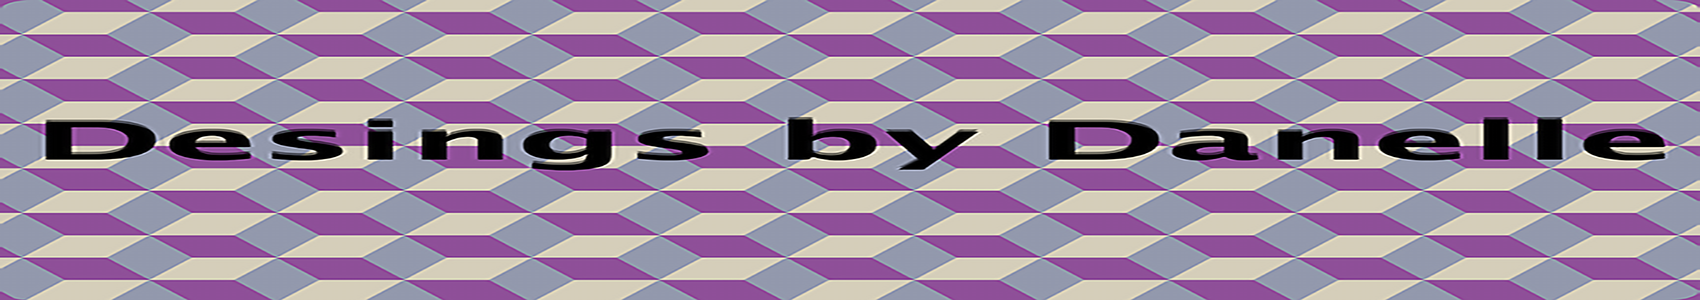
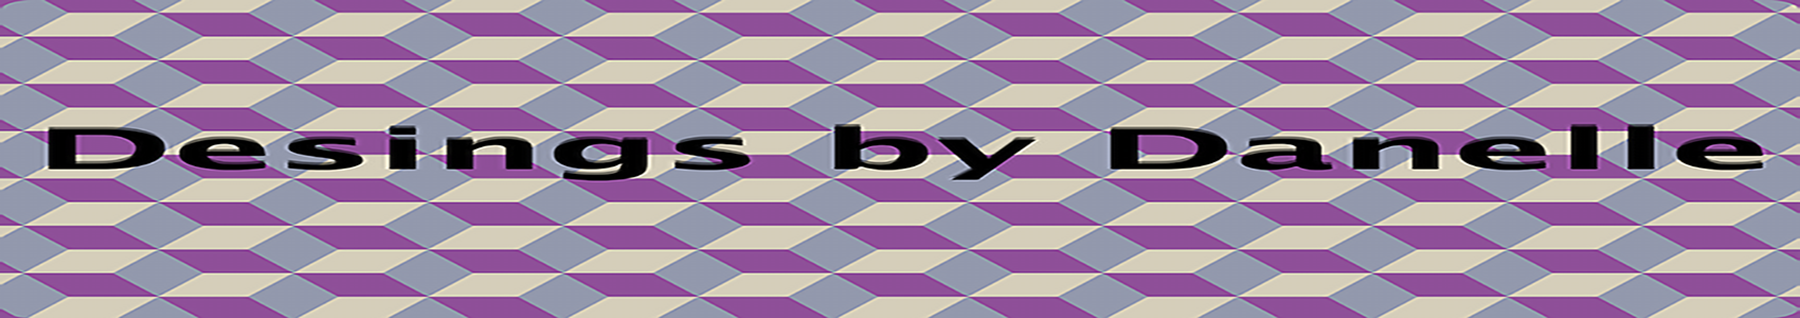
fixed css still need to make it responsive

diff --git a/about.html b/about.html
@@ -1,11 +1,16 @@
-<!-- <!DOCTYPE html>
+<!DOCTYPE html>
 <html>
 
 <head>
   <meta charset="utf-8">
+  <meta name="viewport" content="width=device-width, initial-scale=1.0">
+  <!-- add: meta viewport -->
   <title>Portfolio</title>
   <!-- style -->
   <link rel="stylesheet" href="style.css">
+  <link rel="stylesheet" href="responsive.css">
+  <link rel="stylesheet" href="contact.css">
+  <link rel="stylesheet" href="about.css">
   <!-- main -->
   <link rel="welcome" href="index.html">
   <link rel="About" href="about.html">
@@ -13,7 +18,6 @@
   <link rel="Templates" href="template.html">
   <link rel="Word Press" href="wordPress.html">
   <link rel="Contact" href="contact.html">
-  <link rel="stylesheet " href="jQuery.isc/jQuery.isc.css " type="text/css " media="screen " charset="utf-8 ">
 
 </head>
 
@@ -32,85 +36,43 @@
             <a href="about.html">About</a>
           </li>
           <li>
-            <a href="dynamic.html">Dynamic Websites</a>
+            <a href="dynamic.html">HTML</a>
           </li>
           <li>
             <a href="template.html">Templates</a>
           </li>
           <li>
-            <a href="wordPress.html">Word Press</a>
+            <a href="wordPress.html">WordPress</a>
           </li>
           <li>
             <a href="contact.html">Contact</a>
           </li>
         </ul>
       </nav>
-      <h1>About Me</h1>
-    </div> <!DOCTYPE html>
-    <html>
+      <h1>About</h1>
+    </div>
+    <div class="row">
+      <div class="column">
+        <div class="portrait">
 
-    <head>
-      <meta charset="utf-8">
-      <meta name="viewport" content="width=device-width, initial-scale=1.0">
-      <!-- add: meta viewport -->
-      <title>Portfolio</title>
-      <!-- style -->
-      <link rel="stylesheet" href="style.css">
-      <link rel="stylesheet" href="responsive.css">
-      <!-- main -->
-      <link rel="welcome" href="index.html">
-      <link rel="About" href="about.html">
-      <link rel="Dynamic Web Pages" href="dynamic.html">
-      <link rel="Templates" href="template.html">
-      <link rel="Word Press" href="wordPress.html">
-      <link rel="Contact" href="contact.html">
-
-    </head>
-
-    <body>
-      <div class="gridcontainer">
-
-
-        <div class="item1">
-          <img src="assets/WebBannerDanelle.png" alt="picture Danelle's Portfolio">
-          <nav>
-            <ul>
-              <li>
-                <a href="index.html">Welcome</a>
-              </li>
-              <li>
-                <a href="about.html">About</a>
-              </li>
-              <li>
-                <a href="dynamic.html">HTML</a>
-              </li>
-              <li>
-                <a href="template.html">Templates</a>
-              </li>
-              <li>
-                <a href="wordPress.html">WordPress</a>
-              </li>
-              <li>
-                <a href="contact.html">Contact</a>
-              </li>
-            </ul>
-          </nav>
-          <h1>About</h1>
-        </div>
-        <div class="col-lg-4">
-          <img src="assets/self.png" alt="Self Portrait">
-
-          <h2>Danelle VanVleet</h2>
-          <h4>Content Writer / Web Designer / Owner</h4>
-          <div class="about">
-          <P>
-          As an artist, I find inspiration in the day to day, but my biggest inspiration for my work is my faith. I try to incorporate at least a little bit of it into everything that I do. It may not be outwardly there in the finished projects. However, that is what gives me my drive to create the most real and authentically creative work. My designs aren’t only inventive, complex, and inspirational, but they are also deep and have great meaning to the world.
-          </P>
-          <P>
-          To me, there is nothing better than the smell of freshly opened paint.  The brushes and the art materials in my hands while they dance across the canvas or page. I love the complexity of coding an elegant website.  The process of photography from finding a beautiful spot and setting up the shot, to the behind the scenes editing of the photos to make them the best that they can be.  </P>
-          <P>
-          I have been writing for over 22 years. I have a blog called, “My Walk of Bold Faith,” which is a faith-based blog of inspirational poetry, quotes, stories, and real-life examples of what God can do in our lives. I not only have experience in blogging, but I have also written content for various websites, including content for my sites. My varied experiences with Wix, WordPress, and regular HTML, CSS, and JavaScript, as well as some experience with PHP and content writing, will help, you, the client to have a great user experience and the features in which will help you to portray your business, ministry, or church in the manner in which you desire to be portrayed. </P>
-        </div>
+        <img src="assets/self.png" alt="Self Portrait">
+        <h2>Danelle VanVleet</h2>
+        <h4>Content Writer / Web Designer / Owner</h4>
+      </div>
+      <!-- <div class="column"> -->
+        <P>
+          As an artist, I find inspiration in the day to day, but my biggest inspiration for my work is my faith. I try to incorporate at least a little bit of it into everything that I do. It may not be outwardly there in the finished projects.
+          However, that is what gives me my drive to create the most real and authentically creative work. My designs aren’t only inventive, complex, and inspirational, but they are also deep and have great meaning to the world.
+        </P>
+        <P>
+          To me, there is nothing better than the smell of freshly opened paint. The brushes and the art materials in my hands while they dance across the canvas or page. I love the complexity of coding an elegant website. The process of photography
+          from finding a beautiful spot and setting up the shot, to the behind the scenes editing of the photos to make them the best that they can be. </P>
+        <P>
+          I have been writing for over 22 years. I have a blog called, “My Walk of Bold Faith,” which is a faith-based blog of inspirational poetry, quotes, stories, and real-life examples of what God can do in our lives. I not only have experience
+          in blogging, but I have also written content for various websites, including content for my sites. My varied experiences with Wix, WordPress, and regular HTML, CSS, and JavaScript, as well as some experience with PHP and content writing,
+          will help, you, the client to have a great user experience and the features in which will help you to portray your business, ministry, or church in the manner in which you desire to be portrayed. </P>
+      </div>
+    </div>
   </div>
     <div class="footer">
       <footer>

diff --git a/index.html b/index.html
@@ -24,7 +24,7 @@
 
 
     <div class="item1">
-      <img src="assets/WebBannerDanelle.png" alt="picture Danelle's Portfolio">
+      <img src="assets/webPortfolio.png" alt="picture Danelle's Portfolio">
       <nav>
         <ul>
           <li>
@@ -49,40 +49,41 @@
       </nav>
       <h1>Welcome</h1>
     </div>
-    <div class="row">
-      <div class="column">
-        <a href="https://www.codyjames.org/">
-          <img src="assets/CodyJames.png" alt="CodyJames">
-        </a>
-        <figcaption>Click Here<br>Cody James' Wix</figcaption>
-        <p></p>
-      </div>
-      <div class="column">
-        <a href="https://massagereiki52.github.io/lightBox2/">
-          <img src="assets/LightBox.png" alt="LightBox webpage">
-        </a>
-        <figcaption>Click Here<br>Light Box.</figcaption>
-      </div>
-      <div class="column">
-        <a href="https://massagereiki52.github.io/ChurchTemplate/index.html">
-          <img src="assets/ChurchTemplate.png" alt="Church Template Website Thumbnail">
-        </a>
-        <figcaption>Click Here<br>Church Template</figcaption>
-      </div>
-      <div class="column">
-        <a href="http://danellevanvleet.com/EpilepsyShop/shop/">
-          <img src="assets/EpilepsyAwareness.png" alt="Epilepsy Awareness thumbnail">
-        </a>
-        <figcaption>Click Here <br> Epilepsy Awareness WordPress Eccomerce</figcaption>
+    <div class="figure">
+      <div class="row">
+        <div class="column">
+          <a href="https://www.codyjames.org/">
+            <img src="assets/CodyJames.png" alt="CodyJames">
+          </a>
+          <figcaption>Click Here<br>Cody James' Wix</figcaption>
+
+          <!-- </div>
+      <div class="column"> -->
+          <a href="https://massagereiki52.github.io/lightBox2/">
+            <img src="assets/LightBox.png" alt="LightBox webpage">
+          </a>
+          <figcaption>Click Here<br>Light Box.</figcaption>
+        </div>
+        <div class="column">
+          <a href="https://massagereiki52.github.io/ChurchTemplate/index.html">
+            <img src="assets/ChurchTemplate.png" alt="Church Template Website Thumbnail">
+          </a>
+          <figcaption>Click Here<br>Church Template</figcaption>
+
+          <a href="http://danellevanvleet.com/EpilepsyShop/shop/">
+            <img src="assets/epilepsyAwareness.png" alt="Epilepsy Awareness thumbnail">
+          </a>
+          <figcaption>Click Here <br> Epilepsy Awareness WordPress Eccomerce</figcaption>
+        </div>
       </div>
     </div>
     <div class="grid-item item2">
       <img src="assets/fishing.gif" alt="Fishing Gif" max-width="100%" max-height="100$">
     </div>
-</div>
+  </div>
   <div class="footer">
     <footer>
-  &copy;2019DanelleVanVleet
+      &copy;2019DanelleVanVleet
     </footer>
   </div>
 

diff --git a/dynamic.html b/dynamic.html
@@ -24,7 +24,7 @@
 
 
     <div class="item1">
-      <img src="assets/WebBannerDanelle.png" alt="picture Danelle's Portfolio">
+      <img src="assets/webPortfolio.png" alt="picture Danelle's Portfolio">
       <nav>
         <ul>
           <li>
@@ -47,8 +47,34 @@
           </li>
         </ul>
       </nav>
-      <h1>Dynamic HTML Websites</h1>
+      <h1>Dynamic HTML</h1>
     </div>
+    <div class="figure">
+      <div class="row">
+        <div class="column">
+          <a href="https://www.codyjames.org/">
+            <img src="assets/CodyJames.png" alt="CodyJames">
+          </a>
+          <figcaption>Click Here<br>Cody James' Wix</figcaption>
+        </div>
+        <div class="column">
+          <a href="https://massagereiki52.github.io/lightBox2/">
+            <img src="assets/LightBox.png" alt="LightBox webpage">
+          </a>
+          <figcaption>Click Here<br>Light Box.</figcaption>
+        </div>
+
+      </div>
+    </div>
+
+  </div>
+  <div class="footer">
+    <footer>
+      &copy;2019DanelleVanVleet
+    </footer>
+  </div>
+
+
 </body>
 
 </html>

diff --git a/template.html b/template.html
@@ -27,7 +27,7 @@
 
 
     <div class="item1">
-      <img src="assets/WebBannerDanelle.png" alt="picture Danelle's Portfolio">
+      <img src="assets/webPortfolio.png" alt="picture Danelle's Portfolio">
       <nav>
         <ul>
           <li>
@@ -52,7 +52,22 @@
       </nav>
       <h1>Web Templates</h1>
     </div>
+    <div class="figure">
+      <div class="row">
+        <div class="column">
+          <a href="https://massagereiki52.github.io/ChurchTemplate/index.html">
+            <img src="assets/ChurchTemplate.png" alt="Church Template Website Thumbnail">
+          </a>
+          <figcaption>Click Here<br>Church Template</figcaption>
+        </div>
+      </div>
+    </div>
 
+    <div class="footer">
+      <footer>
+        &copy;2019DanelleVanVleet
+      </footer>
+    </div>
 </body>
 
 </html>

diff --git a/wordPress.html b/wordPress.html
@@ -24,7 +24,7 @@
 
 
     <div class="item1">
-      <img src="assets/WebBannerDanelle.png" alt="picture Danelle's Portfolio">
+      <img src="assets/webPortfolio.png" alt="picture Danelle's Portfolio">
       <nav>
         <ul>
           <li>
@@ -48,6 +48,16 @@
         </ul>
       </nav>
       <h1>WordPress</h1>
+    </div>
+    <div class="figure">
+      <div class="row">
+        <div class="column">
+          <a href="http://danellevanvleet.com/EpilepsyShop/shop/">
+            <img src="assets/epilepsyAwareness.png" alt="Epilepsy Awareness thumbnail">
+          </a>
+          <figcaption>Click Here <br> Epilepsy Awareness WordPress Eccomerce</figcaption>
+        </div>
+      </div>
     </div>
 </body>
 

diff --git a/style.css b/style.css
@@ -37,6 +37,7 @@ h1 {
   text-align: center;
   color: #d9d8ce;
   padding: 0;
+
 }
 .column p{
 color: #d9d8ce;
@@ -96,6 +97,7 @@ figcaption {
   width: 25%; */
   padding-left: 5%;
   padding-right: 5%;
+margin-bottom: 10%;
 }
 
 .row::after {
@@ -103,7 +105,9 @@ figcaption {
   clear: both;
   display: table;
 }
-
+.figure{
+  margin-left:20%;
+}
 .footer {
   text-align: center;
   background-color: #BD3DFF;
@@ -138,11 +142,4 @@ svg {
 
 .marketing .col-lg-4 {
   text-align: center;
-}
-
-.about {
-  font-size: 1.5vw;
-  text-align: justify;
-  /* padding-left: 15%;
-  padding-right: 15%; */
 }

diff --git a/contact.html b/contact.html
@@ -23,7 +23,7 @@
 
 
     <div class="item1">
-      <img src="assets/WebBannerDanelle.png" alt="picture Danelle's Portfolio">
+      <img src="assets/webPortfolio.png" alt="picture Danelle's Portfolio">
       <nav>
         <ul>
           <li>

diff --git a/about.css b/about.css
@@ -1,0 +1,8 @@
+
+.portrait {
+  font-size: 1.5vw;
+  padding-left: 10%;
+  padding-right: 10%;
+  text-align: center;
+  color: #d9d8ce;
+}
